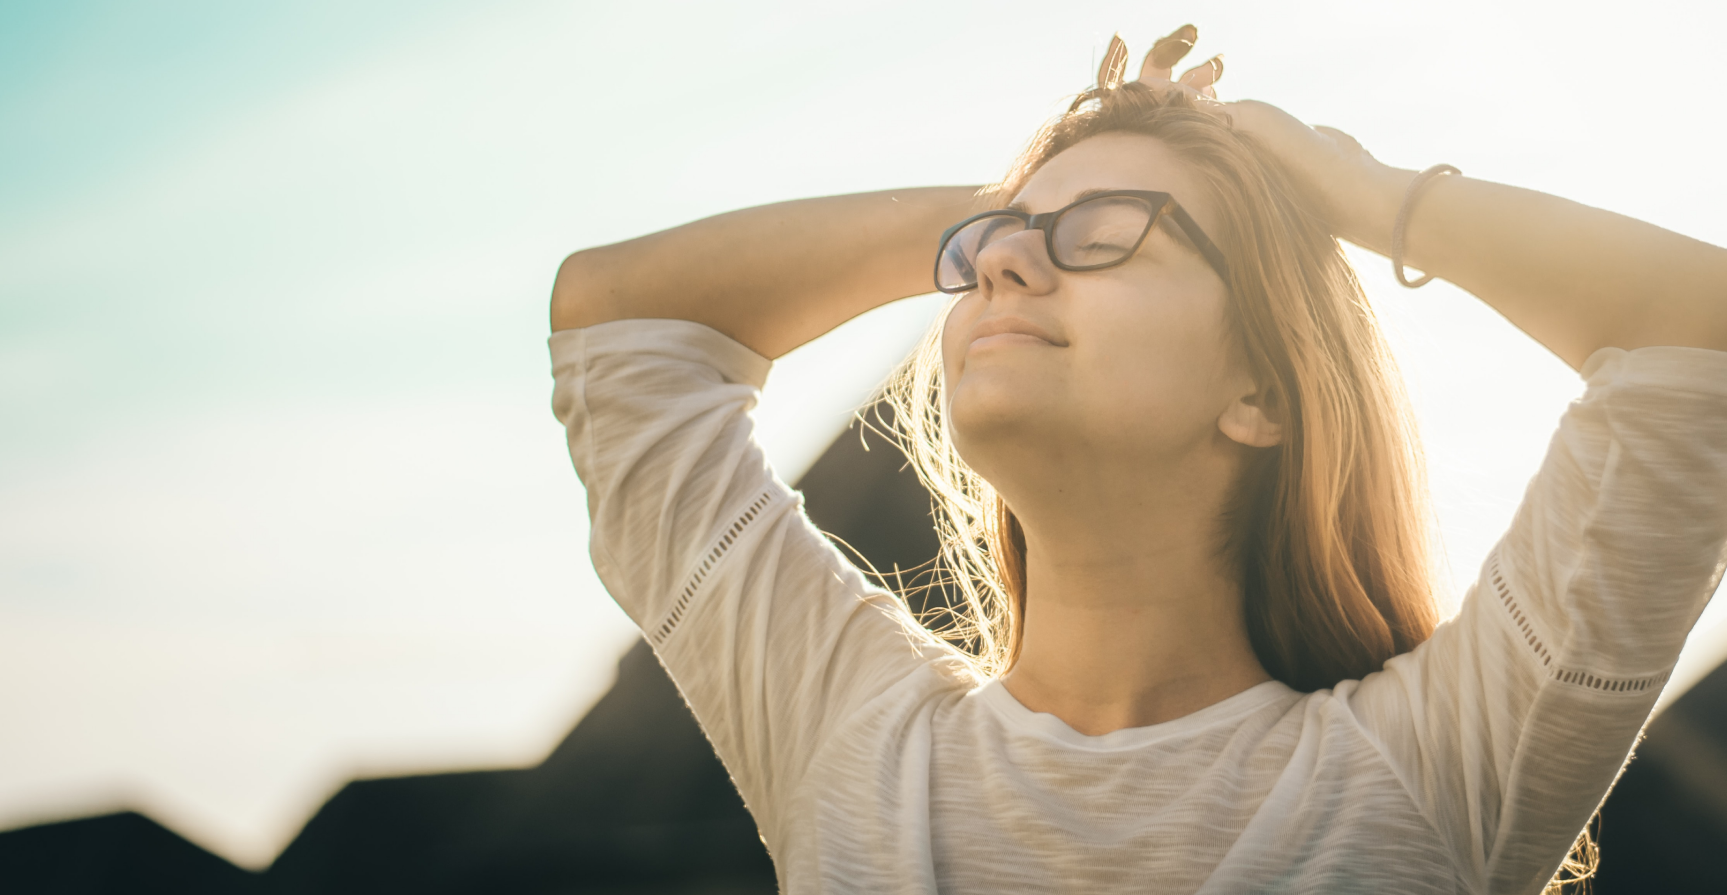
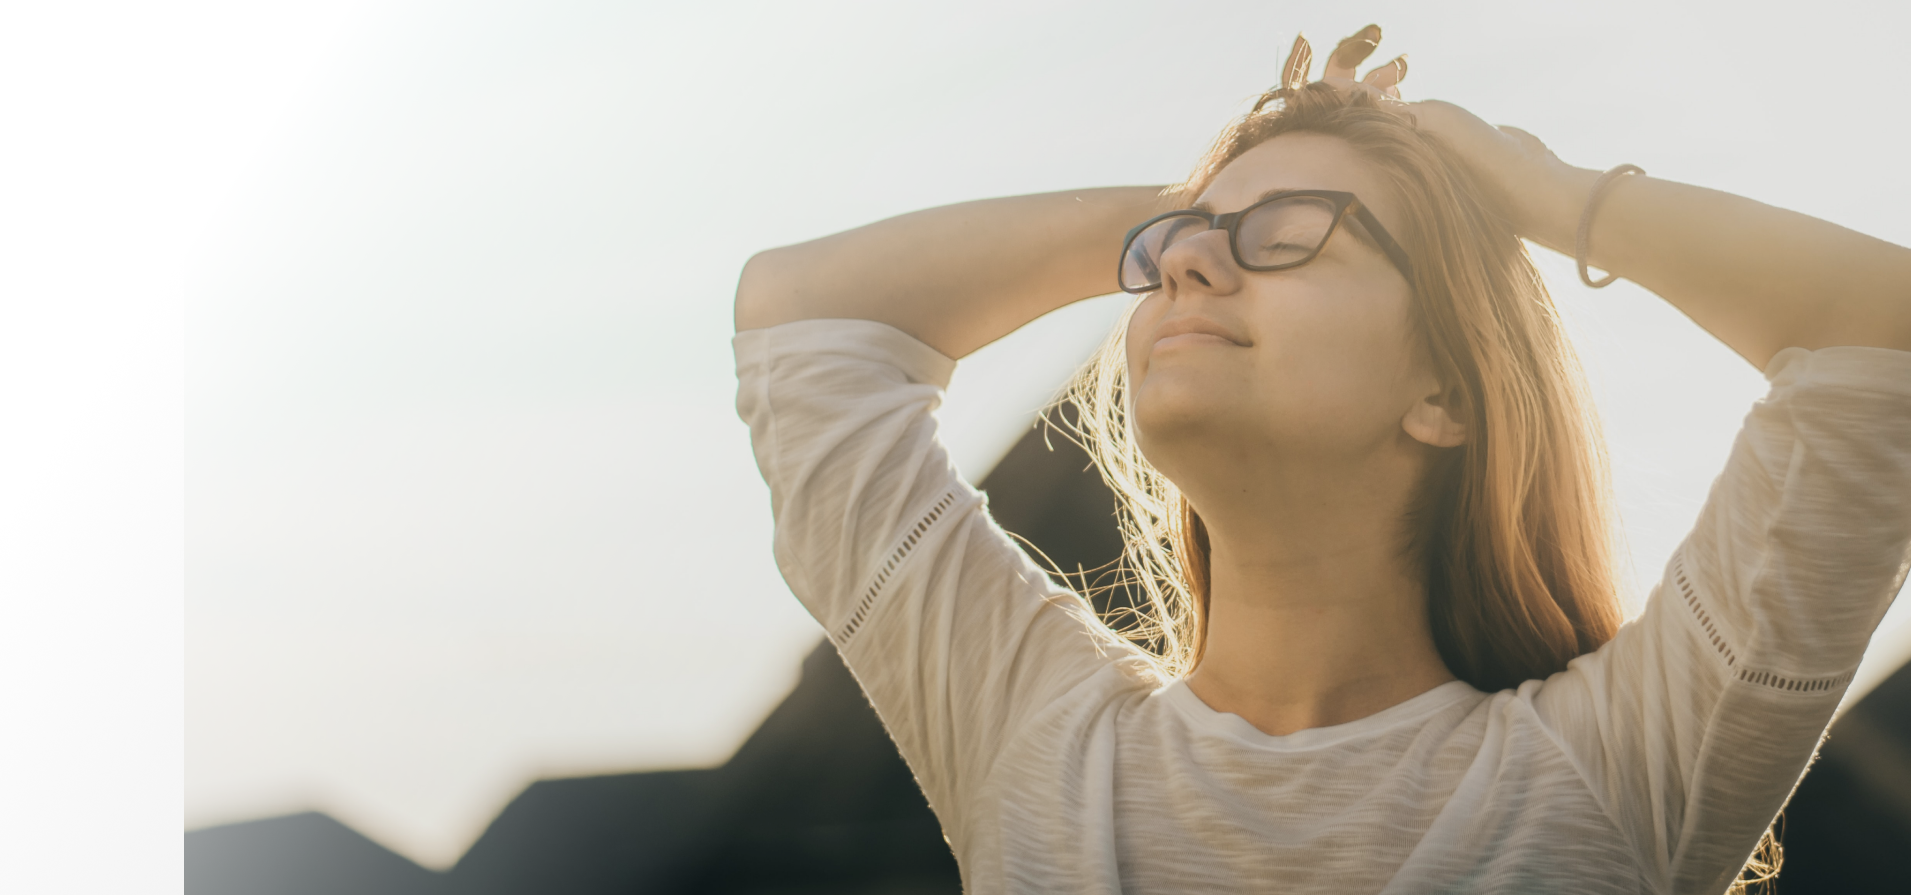
Final version

diff --git a/HW1/index.html b/HW1/index.html
@@ -3,6 +3,10 @@
     <head>
         <title>Alivio</title>
         <meta charset='utf-8'>
+        <link rel="preconnect" href="https://fonts.googleapis.com">
+        <link rel="preconnect" href="https://fonts.gstatic.com" crossorigin>
+        <link href="https://fonts.googleapis.com/css2?family=Nunito+Sans&display=swap" rel="stylesheet">
+        <link href="https://fonts.googleapis.com/css2?family=Poppins&display=swap" rel="stylesheet">
         <link href='http://fonts.googleapis.com/css?family=Lato&subset=latin,latin-ext' rel='stylesheet' type='text/css'>
         <link rel="stylesheet" href="Styles/styles.css">
         <link rel="stylesheet" href="Styles/header.css">
@@ -92,13 +96,15 @@
                     <img src="Images/FourthPageImage.png" alt="Happy Girl"/>
                     <div class="card">
                         <h3>Customized For</h3>
-                        <img class="circle-image" src="Images/FourthPageImage.png" alt="Happy Girl Small"/>
-                        <p>Mickayla</p>
-                        <h4>Your custom contents</h4>
-                        <ul>
-                            <li>Understand Your Stress</li>
-                            <li>Anger Management</li>
-                        </ul>
+                        <img class="circle-image" src="Images/CircleImage.png" alt="Happy Girl Small"/>
+                        <p>Mikayla</p>
+                        <div>
+                            <h4>Your custom contents</h4>
+                            <ul>
+                                <li>Understand Your Stress</li>
+                                <li>Anger Management</li>
+                            </ul>
+                        </div>
                     </div>
                 </div>
                 <div>
@@ -122,13 +128,15 @@
             </div>
             <div>
                 <img src="Images/Logo/Facebook.svg" alt="Facebook"/>
-                <img src="Images/Logo/Instagram.svg" alt="Instagram"/>
+                <img src="Images/Logo/Instagram.png" alt="Instagram"/>
                 <img src="Images/Logo/Twitter.svg" alt="Twitter"/>
             </div>
-            <div>
-                <p class="download">Discover our solutions</p>
-                <img src="Images/GooglePlay.svg" alt="Download Google Play"/>
-                <img src="Images/PlayStore.svg" alt="Download Apple Store"/>
+            <div class="download">
+                <p>Discover our solutions</p>
+                <div>
+                    <img src="Images/GooglePlay.svg" alt="Download Google Play"/>
+                    <img src="Images/PlayStore.svg" alt="Download Apple Store"/>
+                </div>
             </div>
         </footer>
     </body>

diff --git a/HW1/Styles/fourthBlock.css b/HW1/Styles/fourthBlock.css
@@ -1,5 +1,5 @@
 .fourth-block{
-    height: 100vh;
+    height: 95vh;
     display: flex;
     justify-content: center;
     align-items: flex-start;
@@ -11,11 +11,13 @@
     width: 300px;
     position: absolute;
     top: 355px;
+    left: -60px;
     background-color: #FFF;
     border-radius: 4px;
     display: flex;
     flex-direction: column;
     align-items: center;
+    box-shadow: 0 4px 18px rgba(165, 165, 165, 0.25);
 }
 
 .fourth-block > div:first-child{
@@ -24,8 +26,35 @@
 }
 
 .circle-image{
-    transform: scale(2);
     border-radius: 50%;
     height: 60px;
     width: 60px;
+}
+
+.fourth-block .card h3{
+    border-bottom: 1px solid #000;
+    font-size: 14px;
+    padding: 10px;
+}
+
+.fourth-block .card p{
+    font-size: 12px;
+}
+
+.fourth-block .card h4{
+    font-family: Georgia;
+    font-size: 16px;
+    font-weight: 700;
+    line-height: 25px;
+    margin-bottom: 0;
+    margin-top: 10px;
+}
+
+.card li{
+    font-size: 11px;
+    padding-bottom: 10px;
+}
+
+.card ul{
+    padding-left: 17px;
 }

diff --git a/HW1/Styles/footer.css b/HW1/Styles/footer.css
@@ -4,6 +4,9 @@ footer{
     background-color: #245852;
     align-items: flex-end;
     justify-content: space-evenly;
+    padding-bottom: 5vh;
+    padding-top: 8vh;
+    padding-left: 10vw;
 }
 
 footer a{
@@ -16,7 +19,7 @@ footer a{
 }
 
 .company-name{
-    font-family: Avenir;
+    font-family: 'Lato', sans-serif;
     font-size: 40px;
     font-weight: 900;
     line-height: 55px;
@@ -29,14 +32,26 @@ footer a{
     height: 100%;
     flex-direction: column;
     justify-content: space-evenly;
+    padding-bottom: 2vh;
 }
 
-.download{
-    font-family: Poppins;
+.download div{
+    display: flex;
+    justify-content: space-around;
+}
+
+.download p{
+    font-family: Poppins, sans-serif ;
     font-size: 20px;
     font-weight: 500;
     line-height: 25px;
     letter-spacing: 0.005em;
-    text-align: left;
+    text-align: center;
     color: #fff;
+    padding-bottom: 35px;
 }
+
+footer div{
+    width: 25vw;
+}
+

diff --git a/HW1/Styles/firstBlock.css b/HW1/Styles/firstBlock.css
@@ -1,9 +1,7 @@
 .first-block{
     border-top: 1px #D6D6D6;
     height: 90vh;
-    background-image: linear-gradient(112.58deg, #FFF 18.15%, rgba(255, 255, 255, 0) 53.07%), 
-    url(../Images/FirstPage.png);
-    background-position: right;
+    background-image: url(../Images/FirstPage.png);
 }
 
 
